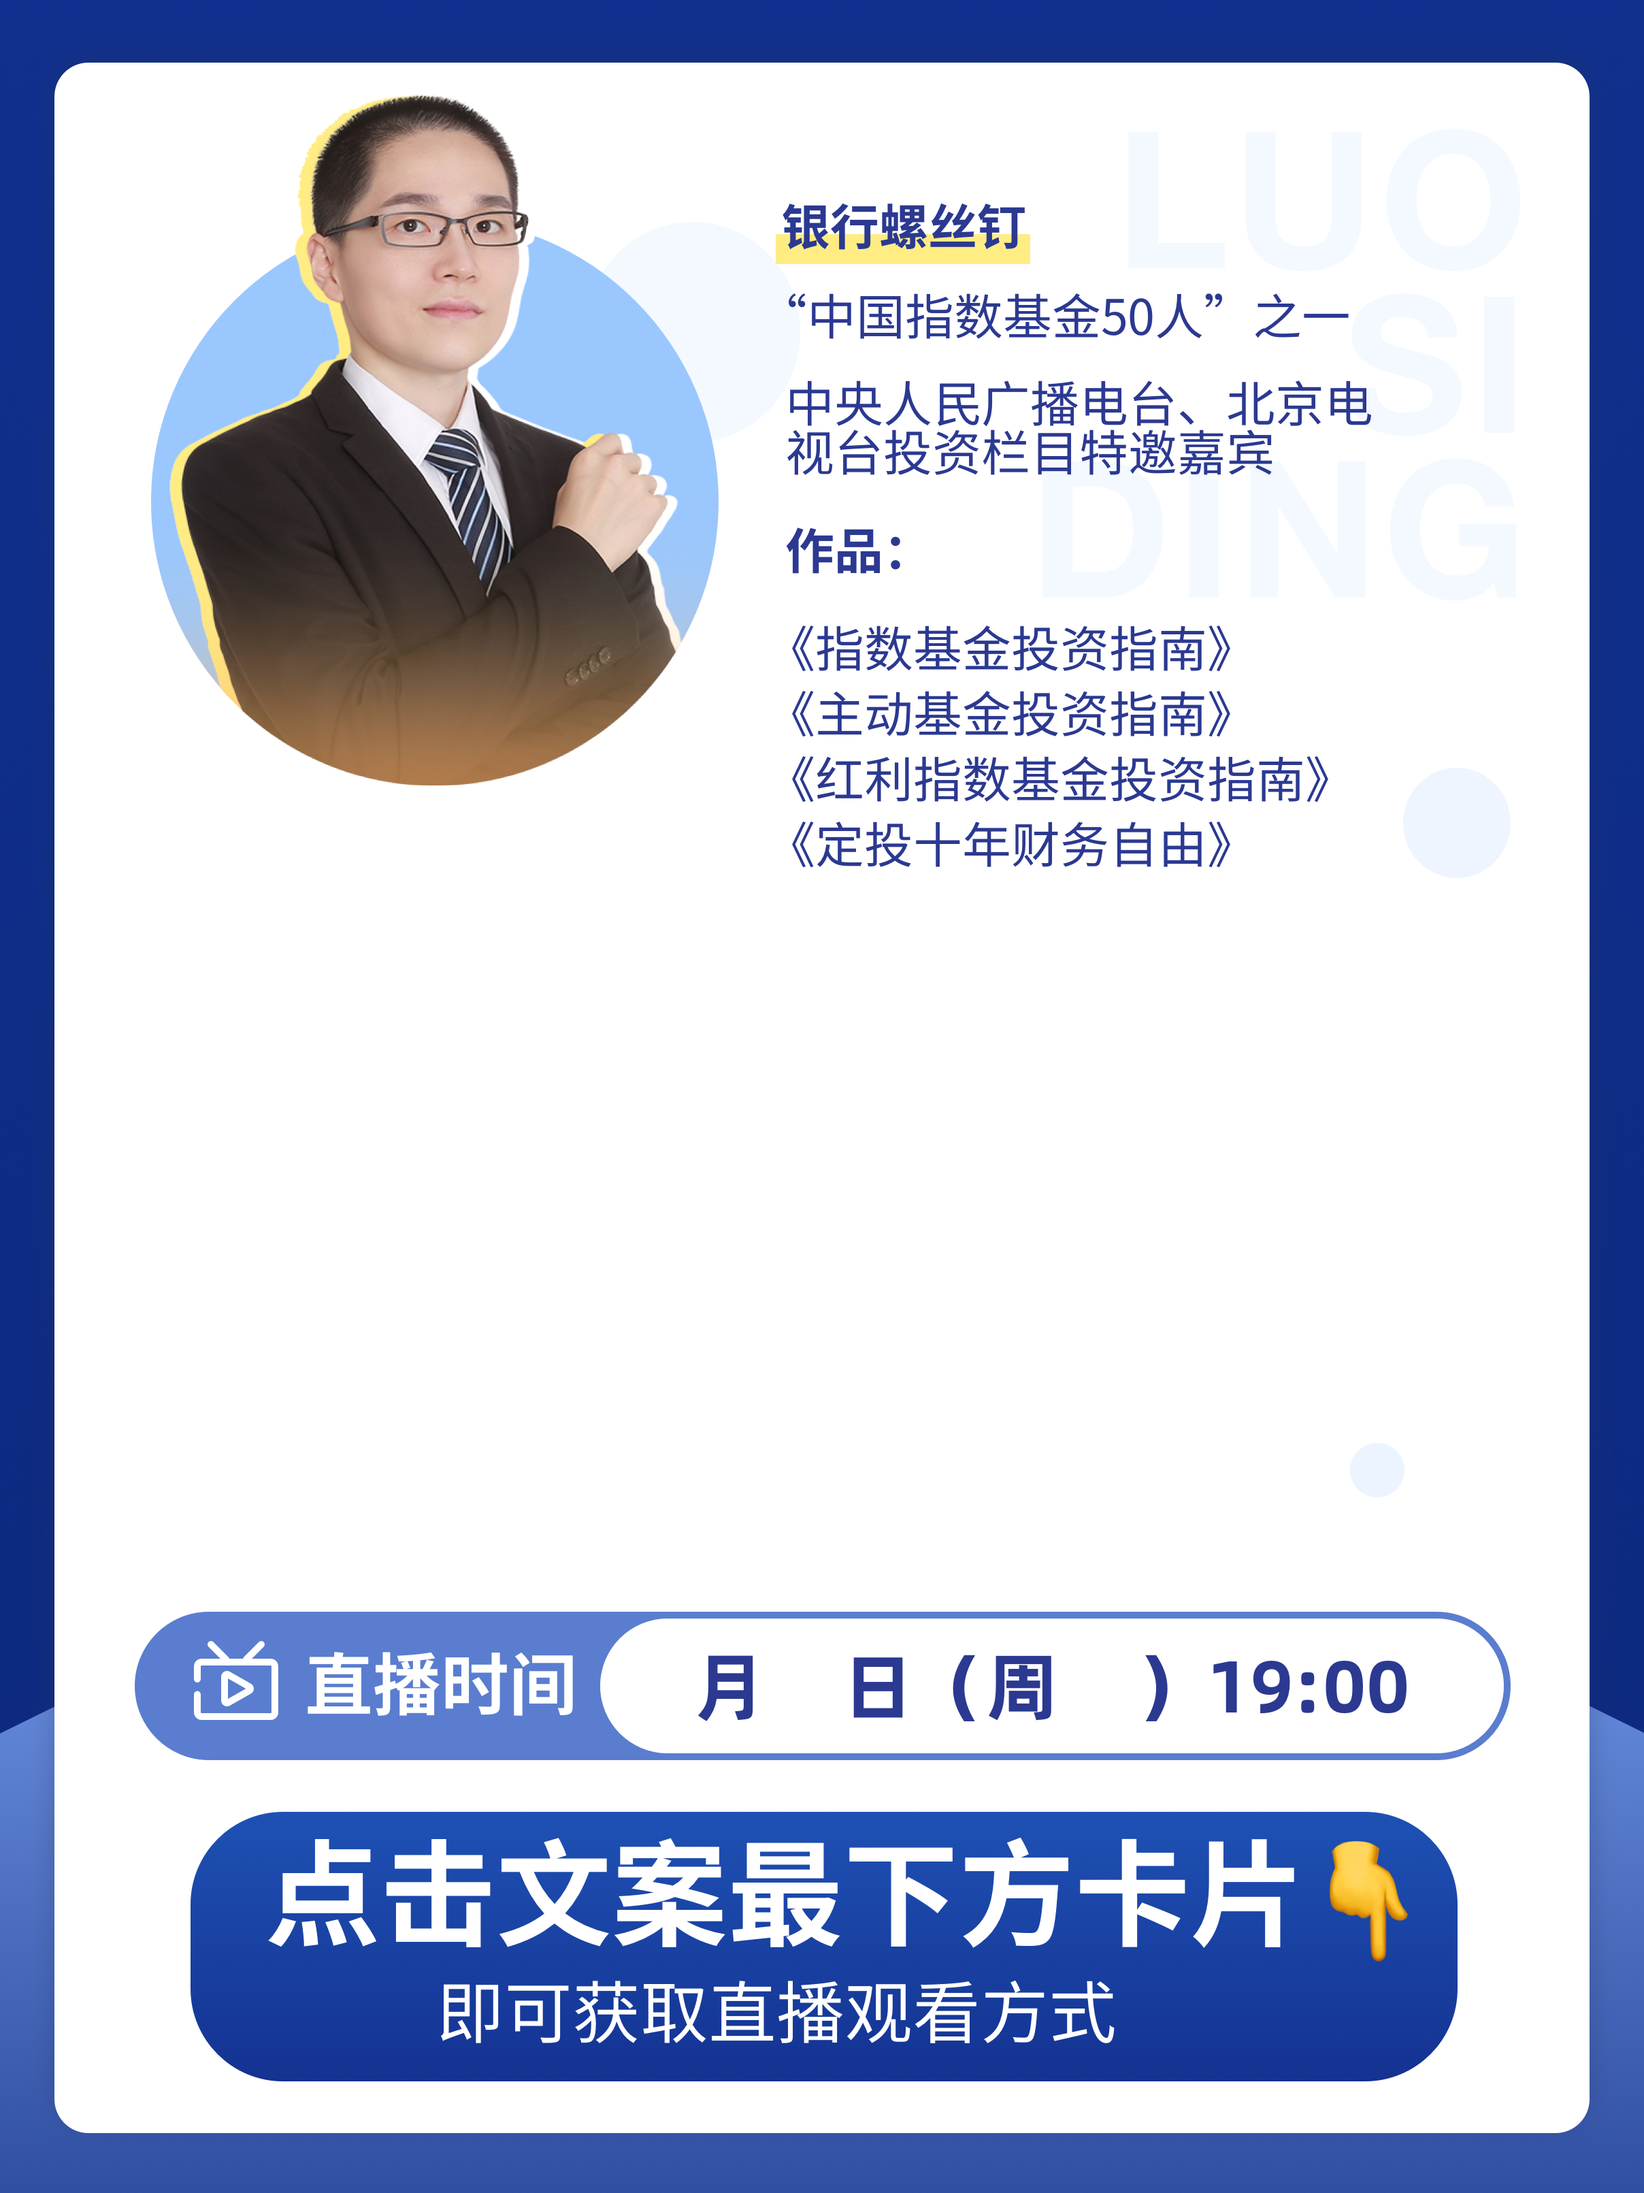
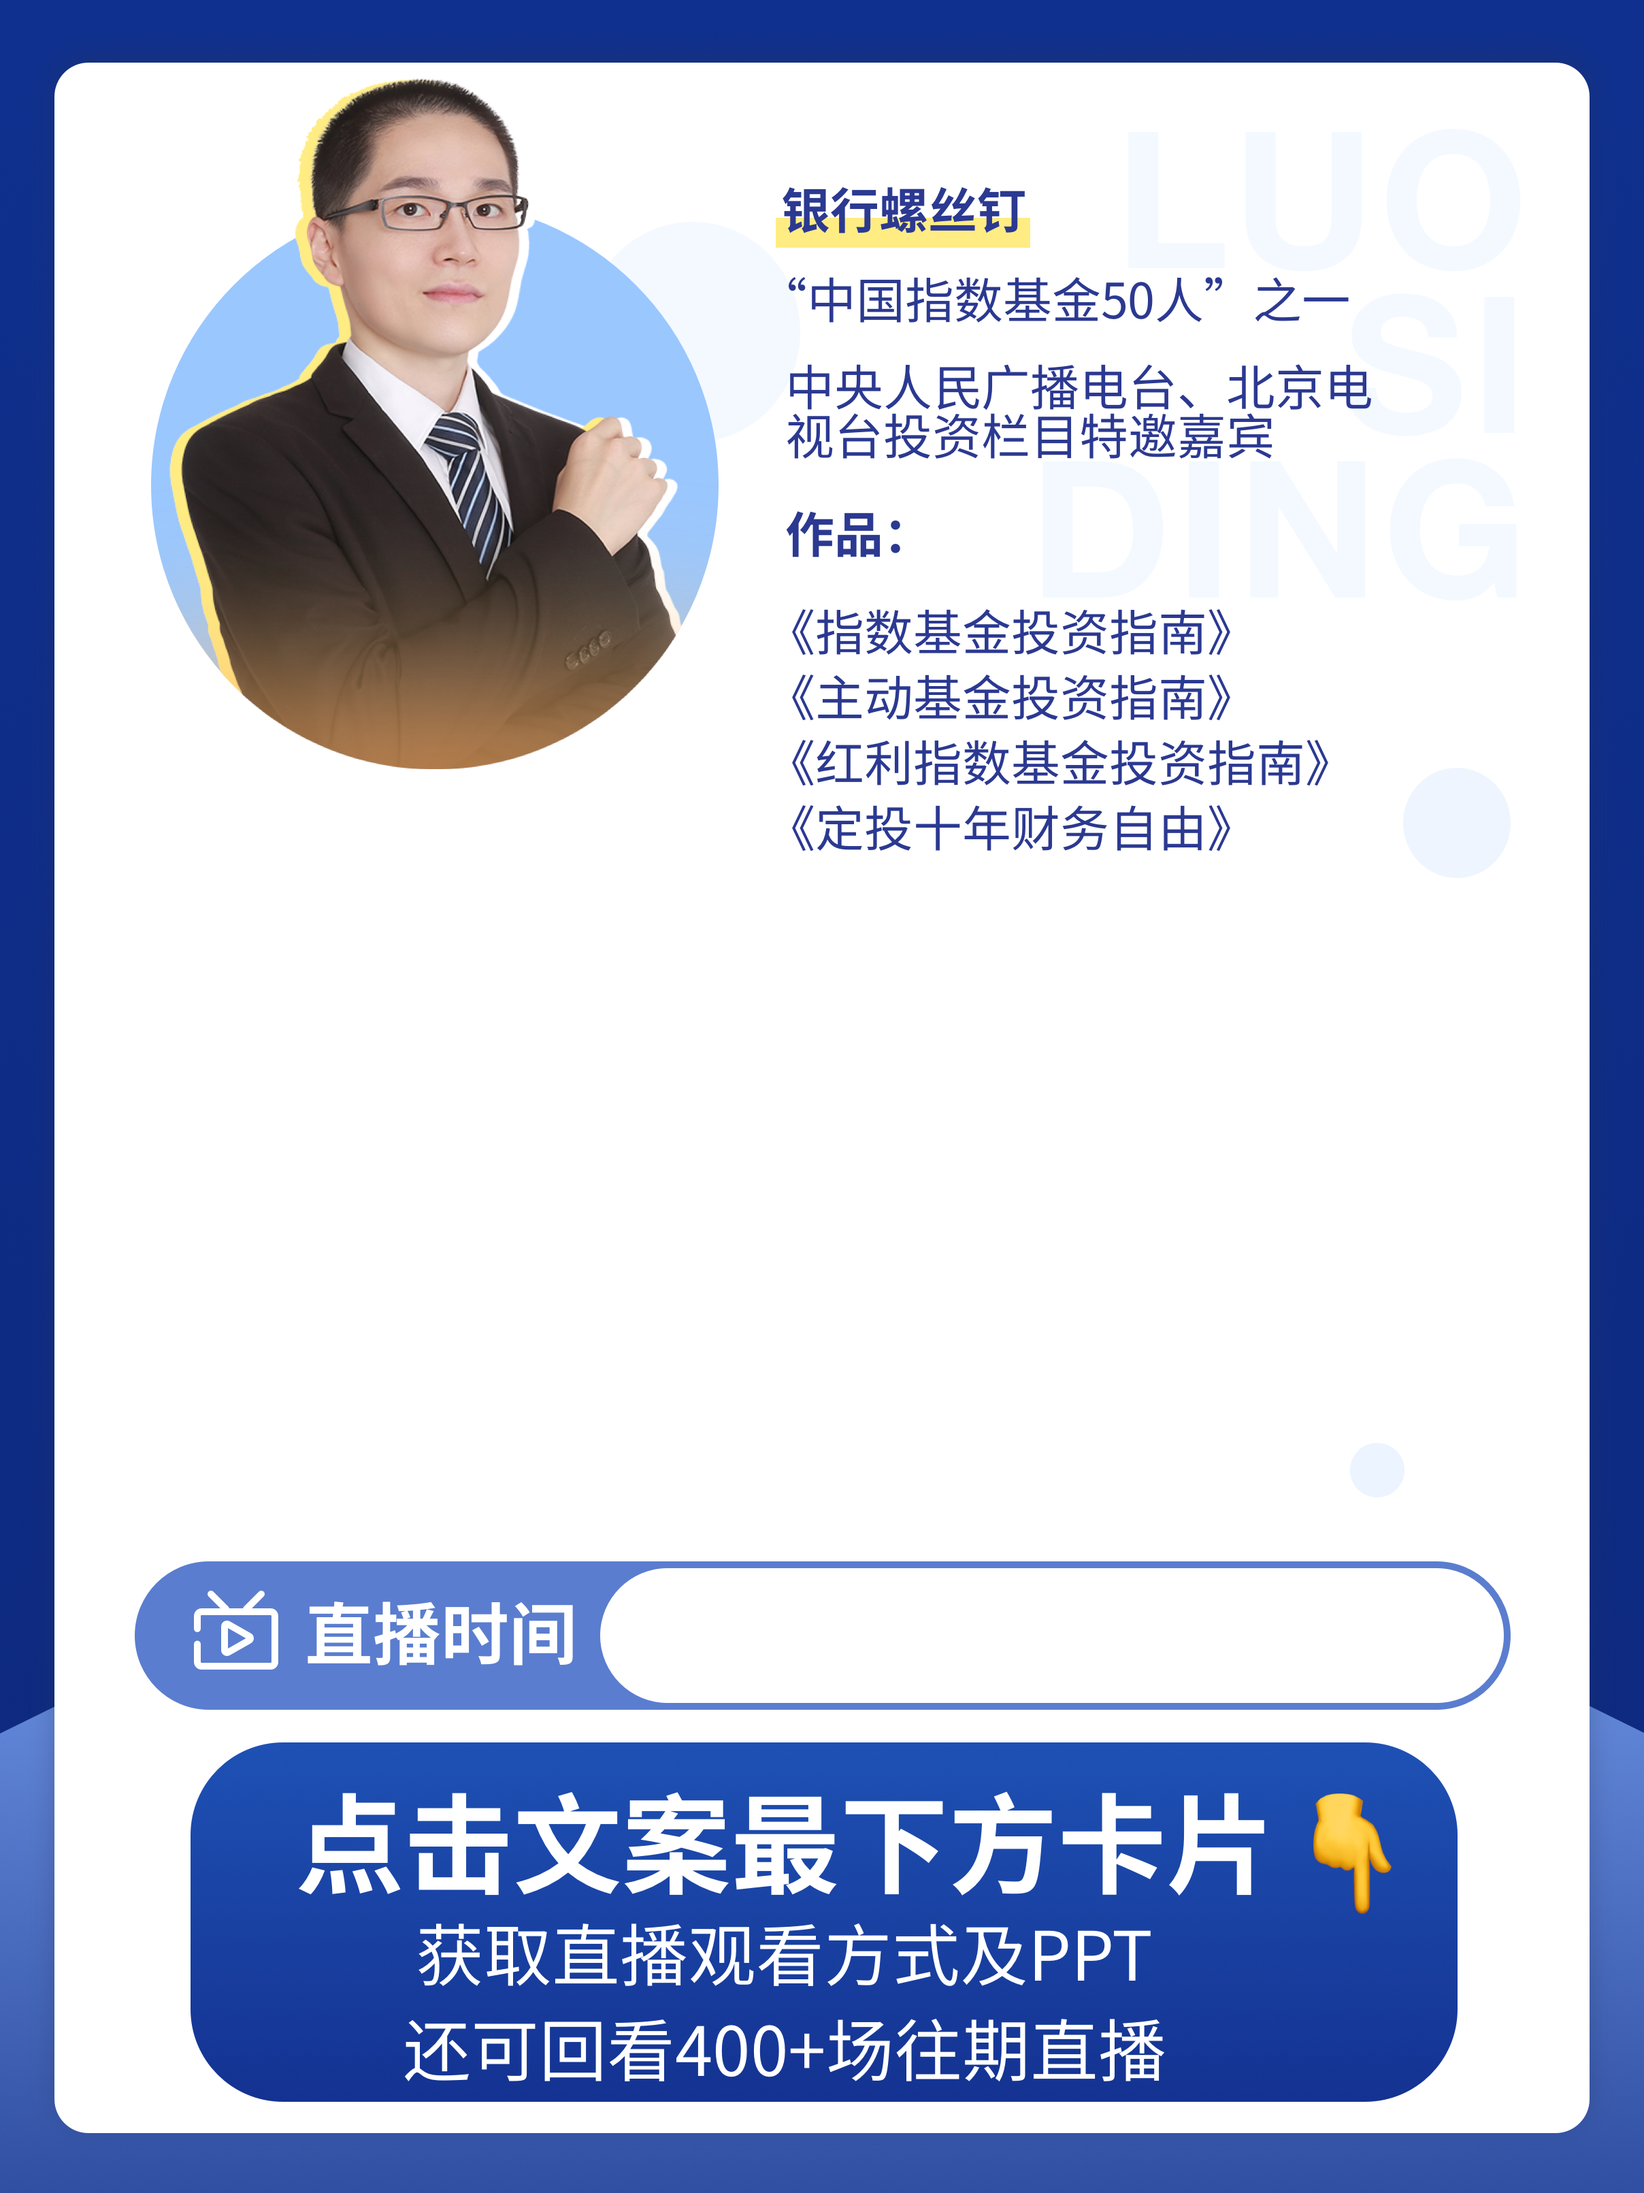
Update four-poster templates and layout rules

diff --git a/template_config.py b/template_config.py
@@ -6,7 +6,7 @@ TEMPLATES_CONFIG = {
         "name": "学院",
         "path": "template_new_1.png",
         "qr_box": [916, 3381, 583, 557],
-        "time_box": [900, 3078, 1435, 196],
+        "time_box": [882, 3078, 1328, 198],
         "date_code_box": None,
         "title_x": 226,
         "title_y": 2122,
@@ -22,7 +22,12 @@ TEMPLATES_CONFIG = {
         "bullet_dot_r": 14,
         "bullet_start_y": 2483,
         "bullet_spacing": 144,
-        "time_cover_mode": "legacy",
+        "time_cover_mode": "full_box",
+        "time_cover_x": [1010, 2100],
+        "time_cover_top_inset": 24,
+        "time_cover_bottom_inset": 24,
+        "time_text_box": [882, 2210],
+        "time_text_x_offset": 0,
         "suffix": "-学院",
     },
 
@@ -31,7 +36,7 @@ TEMPLATES_CONFIG = {
         "name": "有二维码",
         "path": "template_new_5.png",
         "qr_box": [290, 2654, 408, 408],
-        "time_box": [1000, 2400, 1180, 158],
+        "time_box": [882, 2378, 1328, 198],
         "date_code_box": [1065, 2871, 504, 106],
         "title_x": 226,
         "title_y": 1354,
@@ -46,9 +51,13 @@ TEMPLATES_CONFIG = {
         "bullet_dot_x": 275,
         "bullet_dot_r": 14,
         "content_bot": 2367,
-        "t5_content_shift": 30,
+        # Issue 475 calibration: move the title and caption group up 20px
+        # while preserving the time capsule and QR-code area.
+        "t5_content_shift": 10,
+        "content_y_offset": -10,
         "content_layout": "template5",
-        "time_cover_mode": "full_box",
+        "time_cover_mode": "none",
+        "time_text_x_offset": 0,
         "suffix": "-有二维码",
     },
 
@@ -57,7 +66,7 @@ TEMPLATES_CONFIG = {
         "name": "无二维码",
         "path": "template_new_no_qr.png",
         "qr_box": None,
-        "time_box": [1000, 2400, 1180, 158],
+        "time_box": [882, 2304, 1328, 198],
         "date_code_box": None,
         "title_x": 226,
         "title_y": 1354,
@@ -71,10 +80,11 @@ TEMPLATES_CONFIG = {
         "content_x": 346,
         "bullet_dot_x": 275,
         "bullet_dot_r": 14,
-        "content_bot": 2367,
+        "content_bot": 2293,
         "t5_content_shift": 30,
         "content_layout": "template5",
-        "time_cover_mode": "full_box",
+        "time_cover_mode": "none",
+        "time_text_x_offset": 0,
         "suffix": "-无二维码",
     },
 
@@ -83,7 +93,7 @@ TEMPLATES_CONFIG = {
         "name": "横版",
         "path": "template_new_horizontal.png",
         "qr_box": None,
-        "time_box": [950, 1572, 1140, 196],
+        "time_box": [888, 1572, 1328, 198],
         "date_code_box": None,
         "title_font_size": 180,
         "title_x": 190,
@@ -100,7 +110,7 @@ TEMPLATES_CONFIG = {
         "bullet_dot_x": 171,
         "bullet_dot_r": 14,
         "content_bot": 1470,
-        "time_cover_mode": "full_box",
+        "time_cover_mode": "none",
         "time_text_x_offset": 0,
         "suffix": "-横版",
     },

diff --git a/generate_image.py b/generate_image.py
@@ -710,19 +710,34 @@ def create_poster(template_path, output_path, qr_image_path, title, caption_list
 
     # ① 用白色精确覆盖胶囊内的占位文字
     # 旧学院模板保留右侧胶囊的安全边界；其余活动模板给出精确文字区。
-    if config and config.get("time_cover_mode") == "full_box":
+    time_cover_mode = config.get("time_cover_mode") if config else None
+    time_cover_x = config.get("time_cover_x") if config else None
+    if time_cover_mode == "none":
+        cover_x1 = box_x1
+        cover_x2 = box_x2
+    elif time_cover_x:
+        cover_x1, cover_x2 = time_cover_x
+    elif time_cover_mode == "full_box":
         cover_x1 = box_x1
         cover_x2 = box_x2
     else:
         cover_x1 = 1030
         cover_x2 = 2150
-    cover_y1 = box_y1 + 4
-    cover_y2 = box_y2 - 4
-    draw.rectangle([cover_x1, cover_y1, cover_x2, cover_y2],
-                   fill=(255, 255, 255, 255))
+    cover_top_inset = (config.get("time_cover_top_inset") if config else None)
+    cover_bottom_inset = (config.get("time_cover_bottom_inset") if config else None)
+    cover_y1 = box_y1 + (4 if cover_top_inset is None else cover_top_inset)
+    cover_y2 = box_y2 - (4 if cover_bottom_inset is None else cover_bottom_inset)
+    if time_cover_mode != "none":
+        draw.rectangle([cover_x1, cover_y1, cover_x2, cover_y2],
+                       fill=(255, 255, 255, 255))
 
     # ② 字号自适应，确保不超胶囊宽度
-    max_text_w = cover_x2 - cover_x1 - 20
+    time_text_box = config.get("time_text_box") if config else None
+    if time_text_box:
+        text_box_x1, text_box_x2 = time_text_box
+    else:
+        text_box_x1, text_box_x2 = cover_x1, cover_x2
+    max_text_w = text_box_x2 - text_box_x1 - 20
     time_font_size = max(60, min(110, int(box_h * 0.70)))
     time_font = _load_font(bold_font_path, time_font_size)
     text_bbox_t = draw.textbbox((0, 0), live_time, font=time_font)
@@ -740,7 +755,7 @@ def create_poster(template_path, output_path, qr_image_path, title, caption_list
     _tx_off = (config.get("time_text_x_offset") if config else None)
     if _tx_off is None:
         _tx_off = -50
-    text_x = cover_x1 + ((cover_x2 - cover_x1) - text_w) // 2 + _tx_off
+    text_x = text_box_x1 + ((text_box_x2 - text_box_x1) - text_w) // 2 + _tx_off
     text_y = box_y1 + (box_h - text_h) // 2 - text_bbox_t[1]
     draw.text((text_x, text_y), live_time, font=time_font, fill=TIME_COLOR)
     

diff --git a/check_qr_codes.py b/check_qr_codes.py
@@ -38,10 +38,13 @@ QR_SENDER_APP_IDS = {
     "cli_a9388a10967b9cd5",  # 真维斯，2026-09-10 实测由其代胡亮发二维码
 }
 # 支持同事在不同系统/用户目录下安装 lark-cli；可用 LARK_CLI 显式覆盖。
+# 当前机器的 /usr/local/bin/lark-cli 是旧版，优先选择已验证的 npm-global 客户端。
+_preferred_lark_cli = os.path.expanduser("~/.npm-global/bin/lark-cli")
 LARK_CLI = (
     os.environ.get("LARK_CLI")
+    or (_preferred_lark_cli if os.path.isfile(_preferred_lark_cli) else None)
     or shutil.which("lark-cli")
-    or os.path.expanduser("~/.npm-global/bin/lark-cli")
+    or ""
 )
 LARK_PROFILE = os.environ.get("LARK_PROFILE", "live-poster-bot")
 
